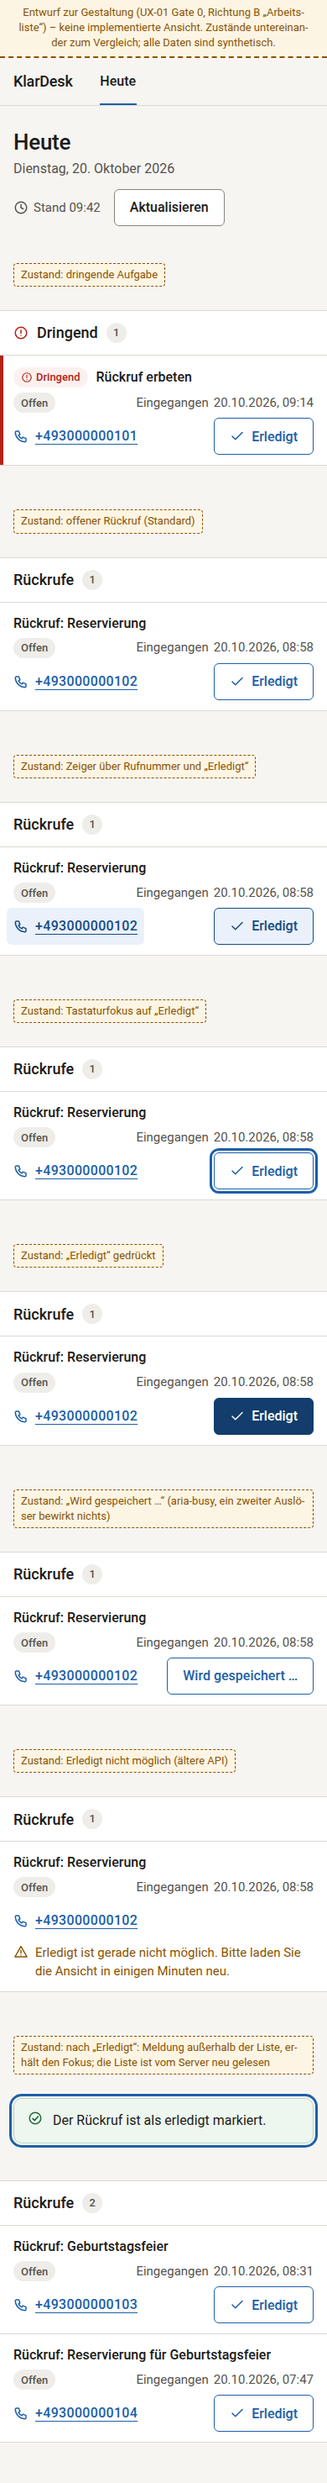
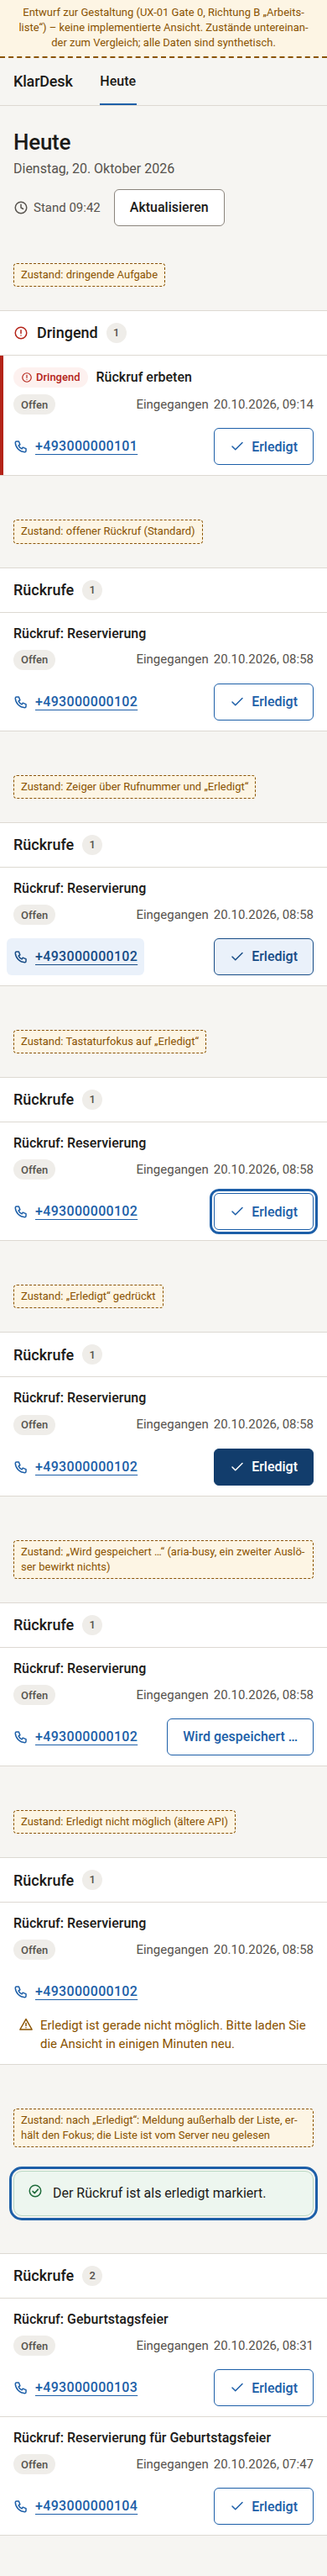
fix(p13): keep the pending action clear of the caller number on phones
Review of the work-queue mock-ups found that the 18-character pending label
"Wird gespeichert …" overlapped the caller number at 320 and 360 px: in a
two-column grid the action column grew to the label's width and the call
link's column collapsed beneath it. The phone row is now a wrapping line
layout, so a label that doesn't fit moves to its own line instead of
covering the number; tablet and desktop rows keep their grid and render
unchanged.

The pending button's accessible name now carries its visible label
("Wird gespeichert …: <title>"), the proposed answer to the label-in-name
obligation; at rest the name stays "Erledigt: <title>".

The render checks now cover 320, 360 and 1280 px without saving images,
and add deterministic row-overlap and label-in-name checks; both fail on
the previous stylesheet and pass on this one. The checks live in a shared
module the owner-test prototype reuses, and --check runs them without
writing images.

Changed region(s): [[0.0308, 0.0, 0.9846, 0.9966], [0.6462, 0.3426, 0.9538, 0.3737]]

diff --git a/docs/design/review/mockups/proposal.css b/docs/design/review/mockups/proposal.css
@@ -464,20 +464,45 @@ h2 {
   box-shadow: inset 4px 0 0 var(--color-urgent);
 }
 
+/* Phone: a wrapping line layout, not a grid. Status and time share a line, then the call link and
+   the action; when a line runs out of room the next item wraps instead of overlapping (the
+   18-character pending label overlapped the number at 320 and 360 px in a two-column grid). */
 .task > article {
-  display: grid;
-  grid-template-columns: minmax(0, 1fr) auto;
-  grid-template-areas:
-    'title title'
-    'status time'
-    'phone action';
+  display: flex;
+  flex-wrap: wrap;
   align-items: center;
-  gap: 6px 12px;
+  gap: 8px 12px;
   padding: 14px 16px 12px;
+}
+
+/* Line order as in the grid layouts: title; status and time; call link and action. Only
+   non-focusable facts move, so the tab order (call link, then action) is unchanged. */
+.cell-status {
+  order: 1;
+}
+
+.cell-time {
+  order: 2;
+}
+
+.task > article::before {
+  content: '';
+  order: 3;
+  flex-basis: 100%;
+  margin-top: -8px;
+}
+
+.cell-phone {
+  order: 4;
+}
+
+.cell-action {
+  order: 5;
 }
 
 .cell-title {
   grid-area: title;
+  flex: 1 0 100%;
   display: flex;
   flex-wrap: wrap;
   align-items: center;
@@ -503,24 +528,40 @@ h2 {
 .cell-time {
   grid-area: time;
   justify-self: end;
+  margin-inline-start: auto;
   color: var(--color-text-muted);
   font-size: 0.9375rem;
+}
+
+.cell-time dd {
   white-space: nowrap;
 }
 
 .cell-action {
   grid-area: action;
   justify-self: end;
+  margin-inline-start: auto;
 }
 
 @media (min-width: 768px) {
   .task > article {
+    display: grid;
     grid-template-columns: auto minmax(0, 1fr) auto auto;
     grid-template-areas:
       'title title phone action'
       'status time phone action';
-    column-gap: 20px;
+    gap: 6px 20px;
     padding: 12px 20px;
+  }
+
+  /* In the grid, alignment comes from justify-self; the phone layout's auto margins would fight it. */
+  .cell-time,
+  .cell-action {
+    margin-inline-start: 0;
+  }
+
+  .task > article::before {
+    display: none;
   }
 
   .cell-time {
@@ -624,7 +665,16 @@ h2 {
 
 .cell-time {
   display: flex;
-  gap: 6px;
+  flex-wrap: wrap;
+  justify-content: flex-end;
+  gap: 0 6px;
+}
+
+@media (max-width: 767px) {
+  .cell-action .btn {
+    white-space: normal;
+    text-align: center;
+  }
 }
 
 @media (min-width: 1100px) {

diff --git a/docs/design/review/mockups/heute-actions.html b/docs/design/review/mockups/heute-actions.html
@@ -325,7 +325,7 @@
                   <button
                     class="btn btn-outline"
                     type="button"
-                    aria-label="Erledigt: Rückruf: Reservierung"
+                    aria-label="Wird gespeichert …: Rückruf: Reservierung"
                     aria-busy="true"
                     aria-disabled="true"
                   >
